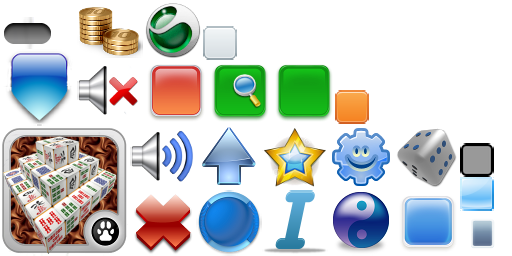
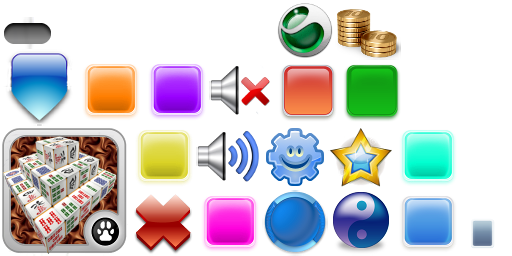
fixes and cuties

diff --git a/core/src/ru/electronikas/diagonal/model/DiGameModel.java b/core/src/ru/electronikas/diagonal/model/DiGameModel.java
@@ -7,6 +7,7 @@ import ru.electronikas.diagonal.model.action.DeleteCellAction;
 import ru.electronikas.diagonal.model.action.DiAction;
 import ru.electronikas.diagonal.model.action.MoveAction;
 import ru.electronikas.diagonal.model.action.NewCellAction;
+import ru.electronikas.diagonal.settings.GameSounds;
 import ru.electronikas.diagonal.ui.LevelField;
 
 import java.util.ArrayList;
@@ -17,7 +18,7 @@ import java.util.List;
  */
 public class DiGameModel implements Json.Serializable {
 
-    public static final byte FIELD_SIZE = 4;
+    public static final byte FIELD_SIZE = 3;
 
     int[][] cells;
 
@@ -34,24 +35,40 @@ public class DiGameModel implements Json.Serializable {
         runReplaceSameCells();
         runCheckGameOver();
         runCreateNewCell();
-
+//        dbprint(cells);
+        GameSounds.flipSoundPlay();
         return stepActions;
     }
 
 
     private void runCheckGameOver() {
+        if(isGameOverState()) {
 
+        }
     }
 
+    private boolean isGameOverState() {
+        boolean noEmptyFields = true;
+        for (int i=0;i<FIELD_SIZE; i++) {
+            for(int j=0; j<FIELD_SIZE; j++) {
+                if(countCellsInThePos(i,j)==0) {
+                    noEmptyFields = false;
+                }
+            }
+        }
+        return noEmptyFields;
+    }
     private void runCreateNewCell() {
         byte xRnd;
         byte yRnd;
-        byte tryNum = 0;
+        int tryNum = 0;
         do {
              xRnd = (byte)MathUtils.random(0, FIELD_SIZE-1);
              yRnd = (byte)MathUtils.random(0, FIELD_SIZE-1);
             tryNum++;
-            if(tryNum > 120) break;
+            if(tryNum > 12000) {
+                runCheckGameOver();
+            }
         } while (cells[xRnd][yRnd] != 0);
 
         cells[xRnd][yRnd] = 2;
@@ -102,6 +119,16 @@ public class DiGameModel implements Json.Serializable {
                         }
                     }
                     cellModel.pos = new Pos(x, pos.y);
+                    if(countCellsInThePos(x, pos.y)==3) {
+                        x++;
+                        cellModel.pos = new Pos(x, pos.y);
+//                        System.out.print("ok. c3 for model this value:" + cellModel.value);
+                    }
+
+                    if(countCellsInThePos(cellModel.pos)==3) {
+                        throw new RuntimeException("c3 for model this value:" + cellModel.value + "pos x:"+cellModel.pos.x+" y:"+cellModel.pos.y);
+                    }
+
                     cells[x][pos.y] = cellModel.value * countCellsInThePos(cellModel.pos);
                     stepActions.add(new MoveAction(cellModel.pos, cellModel));
                 }
@@ -121,6 +148,13 @@ public class DiGameModel implements Json.Serializable {
                         }
                     }
                     cellModel.pos = new Pos(x, pos.y);
+                    if(countCellsInThePos(x,pos.y)==3) {
+                        x--;
+                        cellModel.pos = new Pos(x, pos.y);
+                    }
+
+                    if(countCellsInThePos(cellModel.pos)==3)
+                        throw new RuntimeException("odd must be");
                     cells[x][pos.y] = cellModel.value * countCellsInThePos(cellModel.pos);
                     stepActions.add(new MoveAction(cellModel.pos, cellModel));
                 }
@@ -140,6 +174,13 @@ public class DiGameModel implements Json.Serializable {
                         }
                     }
                     cellModel.pos = new Pos(pos.x, y);
+                    if(countCellsInThePos(pos.x, y)==3) {
+                        y--;
+                        cellModel.pos = new Pos(pos.x, y);
+                    }
+                    cellModel.pos = new Pos(pos.x, y);
+                    if(countCellsInThePos(cellModel.pos)==3)
+                        throw new RuntimeException("odd must be");
                     cells[pos.x][y] = cellModel.value * countCellsInThePos(cellModel.pos);
                     stepActions.add(new MoveAction(cellModel.pos, cellModel));
                 }
@@ -159,12 +200,41 @@ public class DiGameModel implements Json.Serializable {
                         }
                     }
                     cellModel.pos = new Pos(pos.x, y);
+                    if(countCellsInThePos(pos.x, y)==3) {
+                        y++;
+                        cellModel.pos = new Pos(pos.x, y);
+                    }
+                    cellModel.pos = new Pos(pos.x, y);
+                    if(countCellsInThePos(cellModel.pos)==3)
+                        throw new RuntimeException("odd must be");
                     cells[pos.x][y] = cellModel.value * countCellsInThePos(cellModel.pos);
                     stepActions.add(new MoveAction(cellModel.pos, cellModel));
                 }
                 break;
         }
+    }
 
+    private void dbprint(int[][] cells) {
+        for(int i=cells.length-1; i>=0; i--) {
+            for(int j=0; j<cells[i].length; j++) {
+                System.out.print(cells[j][i]);
+
+            }
+
+            System.out.println();
+        }
+
+        System.out.println();
+        for(CellModel cm : LevelField.cells) {
+            System.out.println("" + cm.pos + " v:" + cm.value);
+        }
+    }
+
+//    Pos tmp = new Pos(0,0);
+    private int countCellsInThePos(int x, int y) {
+//        tmp.x = x;
+//        tmp.y = y;
+        return countCellsInThePos(new Pos(x,y));
     }
 
     private int countCellsInThePos(Pos pos) {
@@ -172,7 +242,6 @@ public class DiGameModel implements Json.Serializable {
         for(CellModel cellModel : LevelField.cells) {
             if(cellModel.pos.equals(pos)) c++;
         }
-
         return c;
     }
 

diff --git a/core/src/ru/electronikas/diagonal/settings/GameSounds.java b/core/src/ru/electronikas/diagonal/settings/GameSounds.java
@@ -1,0 +1,53 @@
+package ru.electronikas.diagonal.settings;
+
+import com.badlogic.gdx.Gdx;
+import com.badlogic.gdx.audio.Sound;
+
+/**
+ * Created by navdonin on 10/01/15.
+ */
+public class GameSounds {
+
+    //TODO move to music and sound class
+//    private static Music music;
+    private static Sound flipSound;
+
+    public static void soundsInit() {
+        flipSound = Gdx.audio.newSound(Gdx.files.internal("data/sound/flip.mp3"));
+    }
+
+/*
+    public static void setMusicVolume(float volume) {
+        music.setVolume(volume);
+//        Storage.setMusicVolume(volume);
+    }
+*/
+
+/*
+    public static void musicStop() {
+        if(music==null) return;
+        music.stop();
+    }
+*/
+
+/*
+    public static void musicPlay() {
+        musicStop();
+        music = Gdx.audio.newMusic(Gdx.files.internal("data/sounds/cosmos.mp3"));
+        setMusicVolume(Storage.getMusicVolume());
+        music.setLooping(true);
+        music.play();
+    }
+*/
+
+    public static void flipSoundPlay() {
+        flipSound.play(Storage.getSoundVolume());
+    }
+
+/*
+    public static boolean isMusicPlaying() {
+        return music!=null && music.isPlaying();
+    }
+*/
+
+}

diff --git a/core/src/ru/electronikas/diagonal/model/CellModel.java b/core/src/ru/electronikas/diagonal/model/CellModel.java
@@ -24,12 +24,34 @@ public class CellModel {
         switch (value) {
             case 4:
                 cell = new TextButton("" + value,
-                        Textures.getUiSkin().get("green-but", TextButton.TextButtonStyle.class));
+                        Textures.getUiSkin().get("yellow", TextButton.TextButtonStyle.class));
                 break;
             case 8:
                 cell = new TextButton("" + value,
-                        Textures.getUiSkin().get("red-but", TextButton.TextButtonStyle.class));
+                        Textures.getUiSkin().get("red", TextButton.TextButtonStyle.class));
                 break;
+            case 16:
+                cell = new TextButton("" + value,
+                        Textures.getUiSkin().get("green", TextButton.TextButtonStyle.class));
+                break;
+            case 32:
+                cell = new TextButton("" + value,
+                        Textures.getUiSkin().get("orange", TextButton.TextButtonStyle.class));
+                break;
+            case 64:
+                cell = new TextButton("" + value,
+                        Textures.getUiSkin().get("violet", TextButton.TextButtonStyle.class));
+                break;
+            case 128:
+                cell = new TextButton("" + value,
+                        Textures.getUiSkin().get("ledenec", TextButton.TextButtonStyle.class));
+                break;
+            case 256:
+                cell = new TextButton("" + value,
+                        Textures.getUiSkin().get("magenta", TextButton.TextButtonStyle.class));
+                break;
+
+
         }
         if(cell==null)
             cell = new TextButton("" + value, Textures.getUiSkin());
@@ -53,8 +75,14 @@ public class CellModel {
     }
 
     public void fadeInCell() {
-        cell.setColor(1,1,1,0);
-        cell.addAction(Actions.fadeIn(1f));
+//        cell.setColor(1,1,1,0);
+        cell.setSize(size, size);
+//        cell.setPosition(cell.getX() - (size - 0.6f)/2, cell.getY() + (size - 0.6f)/2);
+//        cell.setPosition(cell.getX() + size, cell.getY() + size);
+//        cell.addAction(Actions.fadeIn(1f));
+        cell.addAction(Actions.sequence(Actions.sizeTo(size*1.1f,size*1.1f, 0.3f), Actions.sizeTo(size,size, 0.3f)));
+//        cell.addAction(Actions.scaleTo(1,1,0.3f));//moveBy(-0.6f,-0.6f, 0.6f));
+
     }
 
     public void remove() {

diff --git a/core/src/ru/electronikas/diagonal/model/Pos.java b/core/src/ru/electronikas/diagonal/model/Pos.java
@@ -31,4 +31,12 @@ public class Pos {
         result = 31 * result + y;
         return result;
     }
+
+    @Override
+    public String toString() {
+        return "Pos{" +
+                "x=" + x +
+                ", y=" + y +
+                '}';
+    }
 }

diff --git a/core/src/ru/electronikas/diagonal/Di2048Game.java b/core/src/ru/electronikas/diagonal/Di2048Game.java
@@ -11,6 +11,7 @@ import com.badlogic.gdx.utils.viewport.ScreenViewport;
 import com.badlogic.gdx.utils.viewport.Viewport;
 import ru.electronikas.diagonal.listeners.DiGestureListener;
 import ru.electronikas.diagonal.model.DiGameModel;
+import ru.electronikas.diagonal.settings.GameSounds;
 import ru.electronikas.diagonal.ui.LevelField;
 
 public class Di2048Game extends ApplicationAdapter {
@@ -30,6 +31,7 @@ public class Di2048Game extends ApplicationAdapter {
 		DiGestureListener gestureListener = new DiGestureListener(levelField);
 		Gdx.input.setInputProcessor(new InputMultiplexer(stage, new GestureDetector(gestureListener)));
 
+		GameSounds.soundsInit();
 	}
 
 	@Override